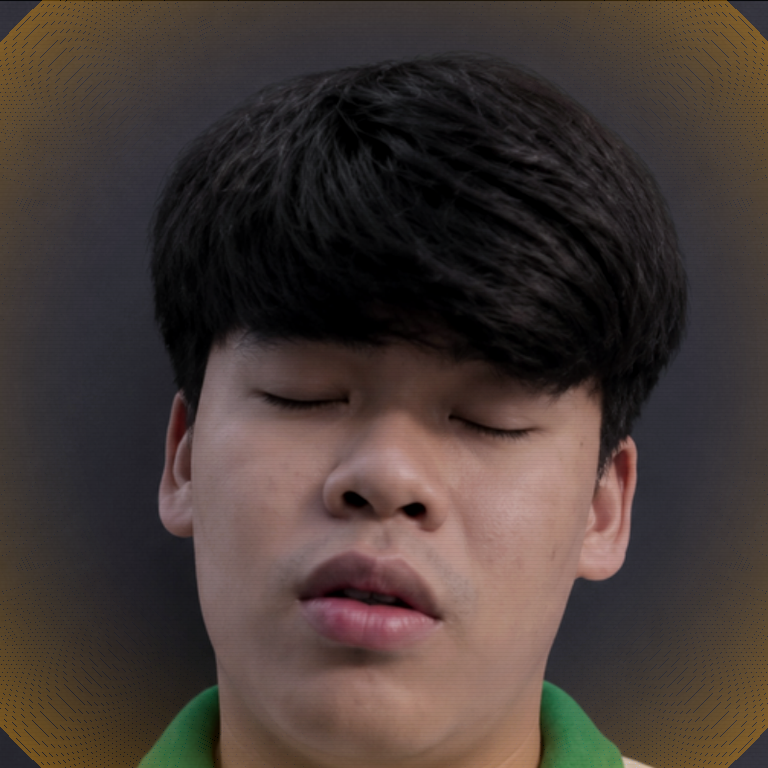
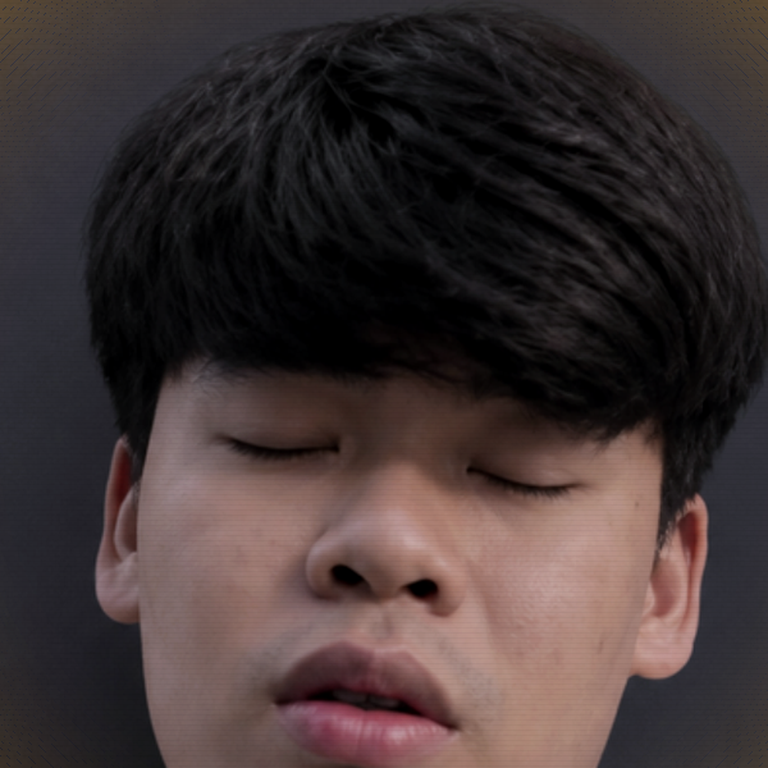
Add files via upload

diff --git a/index.html b/index.html
@@ -228,25 +228,25 @@
     .patient-hud-badge {
       display: flex;
       align-items: center;
-      gap: 14px;
-      padding: 0 16px;
+      gap: 16px;
+      padding: 0 20px;
       height: 100%;
       border-right: 2px solid #1E293B;
-      background: rgba(11, 17, 26, 0.95);
+      background: rgba(11, 17, 26, 0.96);
       flex-shrink: 0;
       position: relative;
       z-index: 2;
       transition: all 0.3s ease;
     }
     .patient-hud-photo-wrap {
-      width: 88px;
-      height: 88px;
-      border-radius: 9px;
+      width: 110px;
+      height: 110px;
+      border-radius: 12px;
       overflow: hidden;
       position: relative;
-      border: 2.5px solid #F59E0B;
+      border: 3px solid #F59E0B;
       background: #0A0F1D;
-      box-shadow: 0 0 16px rgba(245, 158, 11, 0.4);
+      box-shadow: 0 0 22px rgba(245, 158, 11, 0.5);
       flex-shrink: 0;
       transition: border-color 0.3s ease, box-shadow 0.3s ease, transform 0.2s ease;
     }
@@ -254,7 +254,7 @@
       width: 100%;
       height: 100%;
       object-fit: cover;
-      object-position: center 20%;
+      object-position: center;
       display: block;
       transition: filter 0.3s ease;
     }
@@ -262,7 +262,7 @@
       position: absolute;
       inset: 0;
       pointer-events: none;
-      background: linear-gradient(rgba(18, 16, 16, 0) 50%, rgba(0, 0, 0, 0.35) 50%),
+      background: linear-gradient(rgba(18, 16, 16, 0) 50%, rgba(0, 0, 0, 0.25) 50%),
                   linear-gradient(90deg, rgba(255, 0, 0, 0.03), rgba(0, 255, 0, 0.01), rgba(0, 0, 255, 0.03));
       background-size: 100% 3px, 6px 100%;
     }
@@ -270,33 +270,33 @@
       display: flex;
       flex-direction: column;
       justify-content: center;
-      gap: 4px;
-      min-width: 125px;
+      gap: 6px;
+      min-width: 155px;
     }
     .patient-hud-label {
-      font-size: 10px;
-      font-weight: 700;
-      letter-spacing: 0.12em;
-      color: #64748B;
+      font-size: 11px;
+      font-weight: 800;
+      letter-spacing: 0.14em;
+      color: #94A3B8;
     }
     .patient-hud-state {
-      font-size: 12.5px;
+      font-size: 14px;
       font-weight: 800;
-      letter-spacing: 0.06em;
+      letter-spacing: 0.08em;
       color: #F59E0B;
       transition: color 0.3s ease;
       white-space: nowrap;
     }
     .patient-hud-badge.warn .patient-hud-photo-wrap {
       border-color: #F59E0B;
-      box-shadow: 0 0 16px rgba(245, 158, 11, 0.45);
+      box-shadow: 0 0 22px rgba(245, 158, 11, 0.55);
     }
     .patient-hud-badge.warn .patient-hud-state {
       color: #F59E0B;
     }
     .patient-hud-badge.critical .patient-hud-photo-wrap {
       border-color: #EF4444;
-      box-shadow: 0 0 18px rgba(239, 68, 68, 0.65);
+      box-shadow: 0 0 24px rgba(239, 68, 68, 0.75);
       animation: hudCritGlow 1.2s infinite ease-in-out;
     }
     .patient-hud-badge.critical .patient-hud-state {
@@ -304,7 +304,7 @@
     }
     .patient-hud-badge.healthy .patient-hud-photo-wrap {
       border-color: #10B981;
-      box-shadow: 0 0 18px rgba(16, 185, 129, 0.55);
+      box-shadow: 0 0 24px rgba(16, 185, 129, 0.65);
     }
     .patient-hud-badge.healthy .patient-hud-state {
       color: #10B981;
@@ -312,7 +312,7 @@
     .patient-hud-badge.damage-flash .patient-hud-photo-wrap {
       animation: hudDamageShake 0.65s cubic-bezier(.36,.07,.19,.97) both;
       border-color: #FF0055 !important;
-      box-shadow: 0 0 30px rgba(255, 0, 85, 0.95) !important;
+      box-shadow: 0 0 35px rgba(255, 0, 85, 0.95) !important;
     }
     @keyframes hudDamageShake {
       10%, 90% { transform: translate3d(-3px, 0, 0) scale(1.05); }
@@ -321,13 +321,13 @@
       40%, 60% { transform: translate3d(5px, 0, 0) scale(1.06); }
     }
     @keyframes hudCritGlow {
-      0%, 100% { box-shadow: 0 0 10px rgba(239, 68, 68, 0.4); }
-      50% { box-shadow: 0 0 24px rgba(239, 68, 68, 0.9); }
+      0%, 100% { box-shadow: 0 0 12px rgba(239, 68, 68, 0.45); }
+      50% { box-shadow: 0 0 28px rgba(239, 68, 68, 0.95); }
     }
 
-    /* 118px High-Visibility Realtime Telemetry HUD Ribbon */
+    /* 130px High-Visibility Realtime Telemetry HUD Ribbon */
     .telemetry-ribbon-bar {
-      height: 118px;
+      height: 130px;
       background: #050A14;
       border-bottom: 2px solid #1E293B;
       display: flex;
